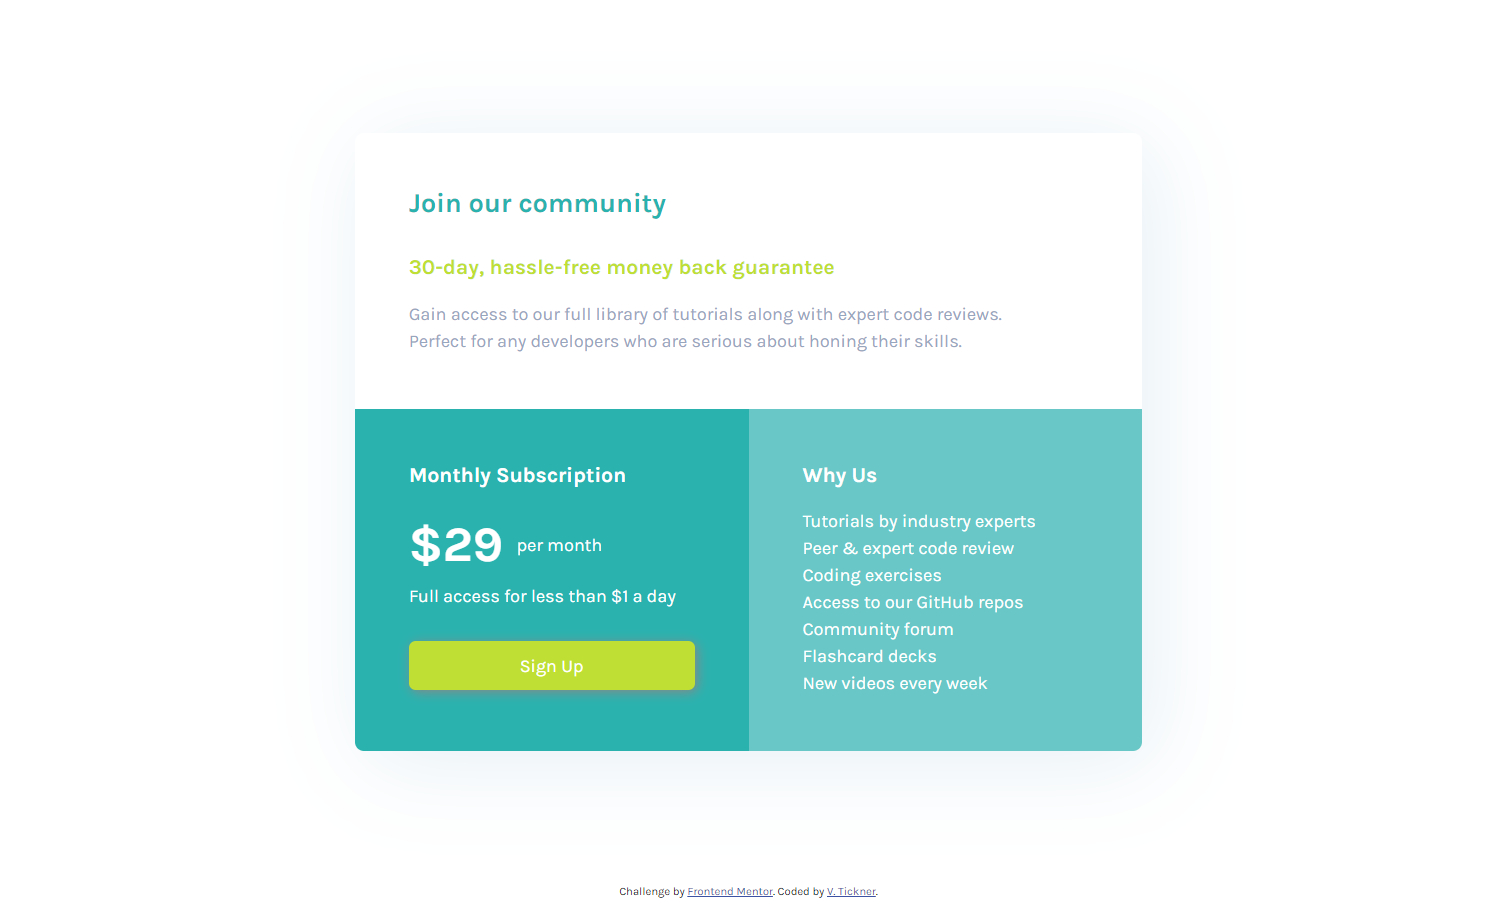
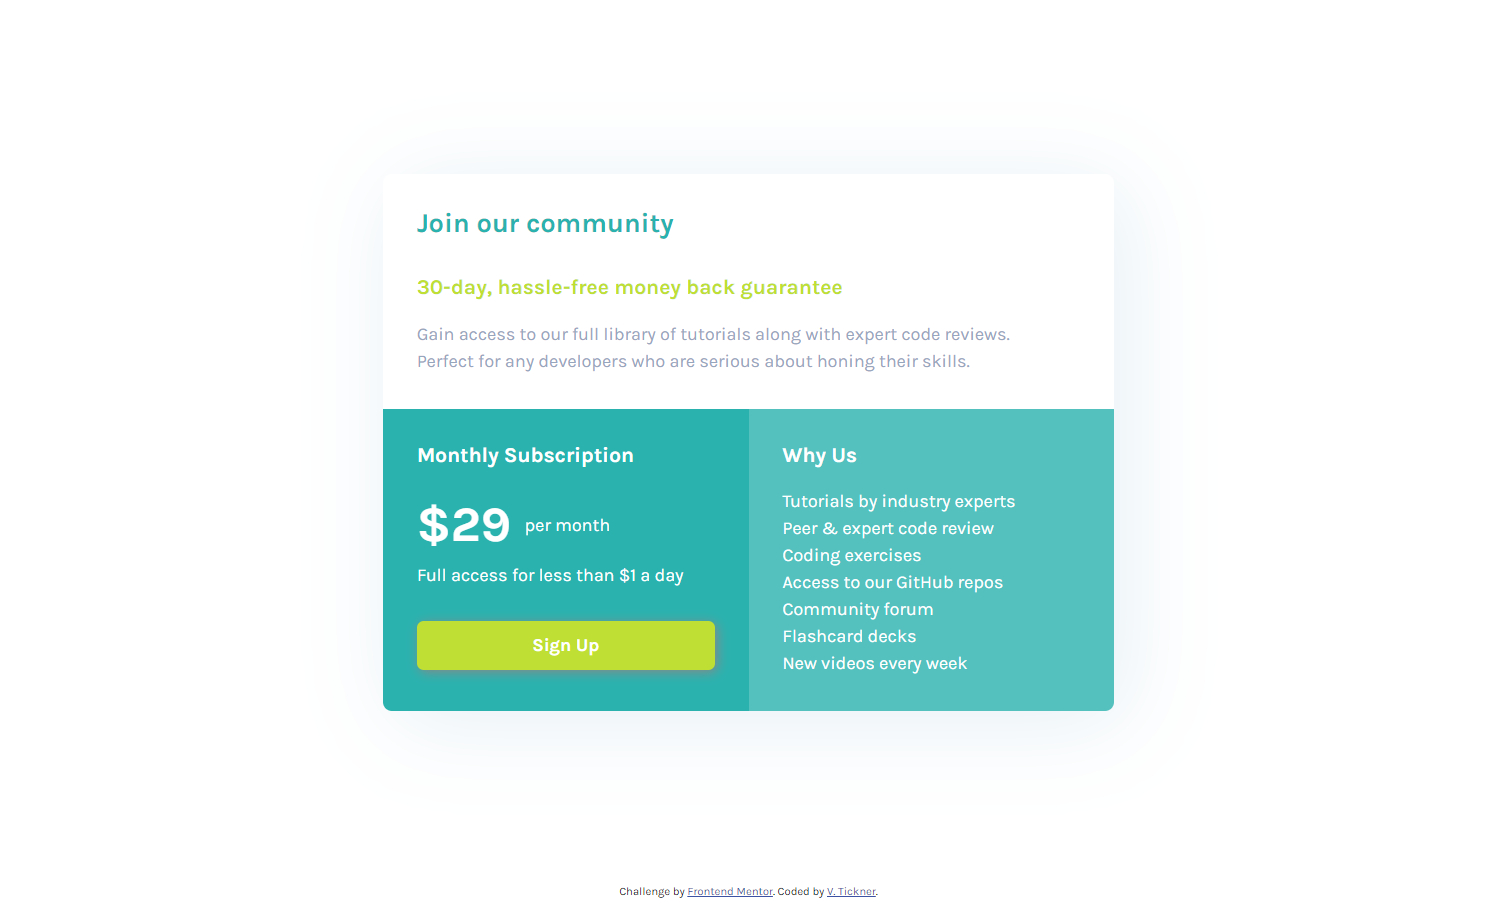
Update screenshots and README

Changed region(s): [[0.2151, 0.4327, 0.7682, 0.8344], [0.2766, 0.2163, 0.676, 0.4018]]

diff --git a/styles.css b/styles.css
@@ -4,7 +4,7 @@
 
 :root {
   --cyan: hsl(179, 62%, 43%);
-  --lightCyan: hsla(179, 62%, 43%, 0.7);
+  --lightCyan: hsla(179, 62%, 43%, 0.8);
   --brightYellow: hsl(71, 73%, 54%);
 
   --white: #fff;

diff --git a/README.md b/README.md
@@ -20,9 +20,8 @@ The challenge was to build a responsive layout to show a single price grid compo
 
 ### Screenshot
 
-<img src="./images/single-price-grid-mobile-screenshot.jpg" height="350px" />
-
 ![Desktop single price grid screenshot](./images/single-price-grid-desktop-screenshot.jpg)
+<img src="./images/single-price-grid-mobile-screenshot.jpg" height="350px" />
 
 ### Links
 
